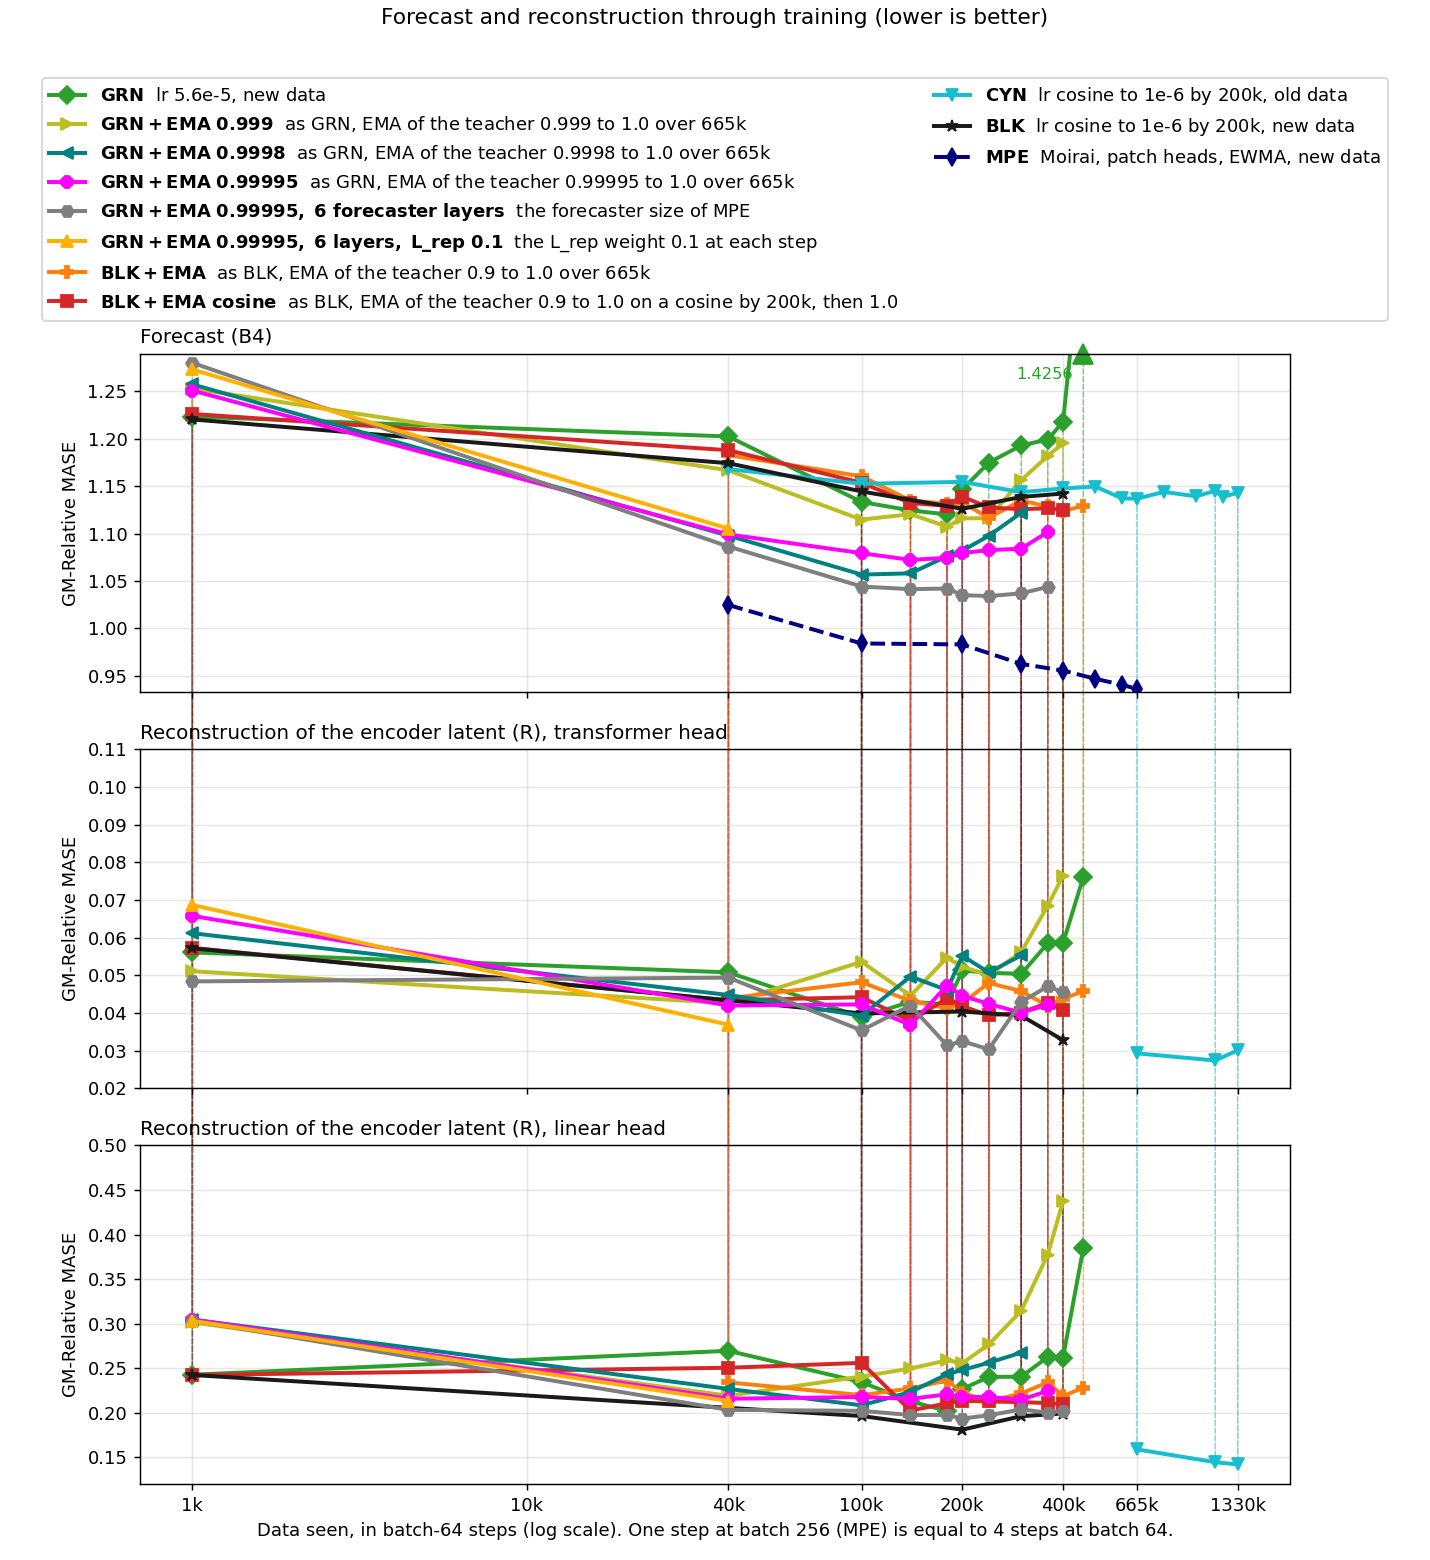
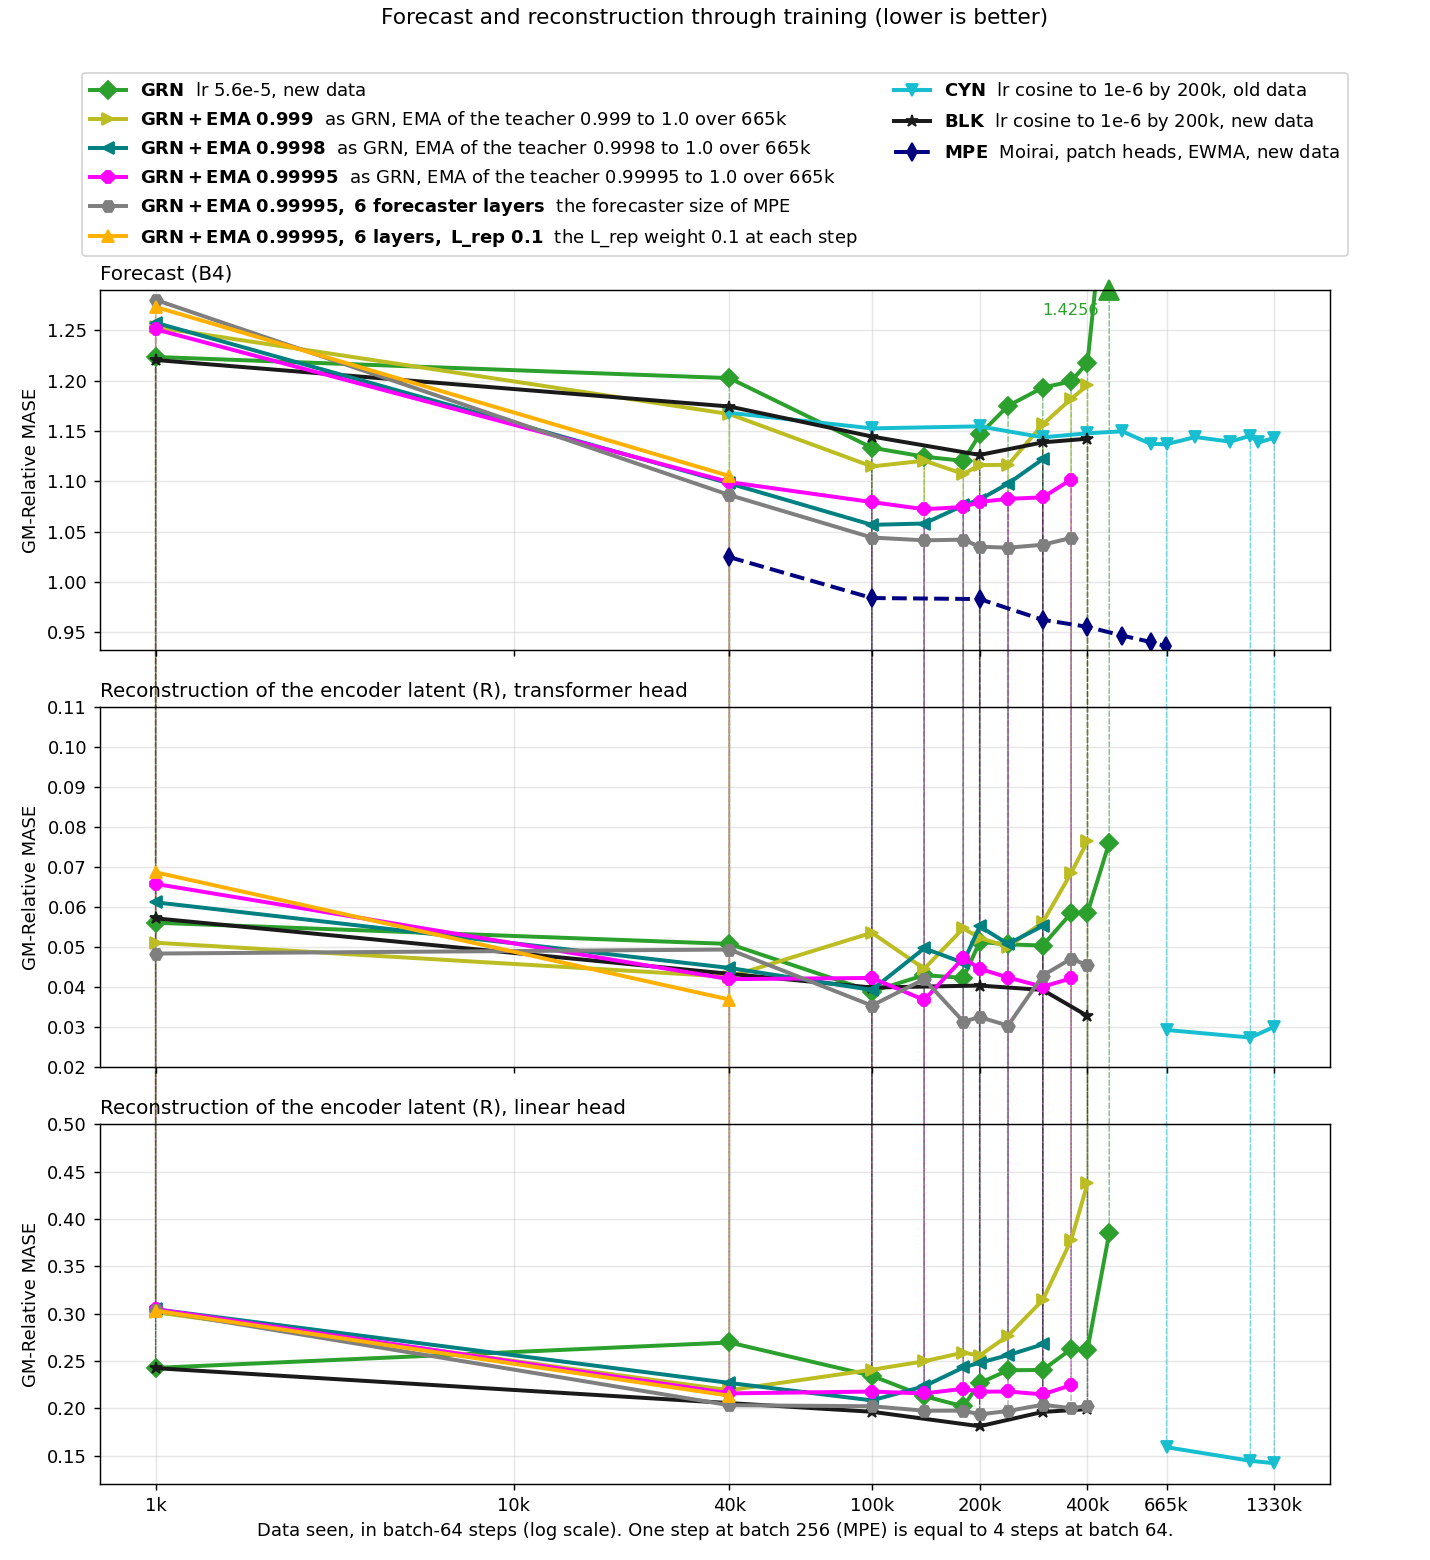
Score figure: remove BLK+EMA and BLK+EMA cosine (owner)

diff --git a/reports/2026-10-10_frequency_family_head/scripts/plot_green_scores.py b/reports/2026-10-10_frequency_family_head/scripts/plot_green_scores.py
@@ -1,9 +1,7 @@
 """The forecast and the reconstruction of the encoder latent through training,
-for the runs of this report (GRN, BLK+EMA, GRN+EMA 0.999, GRN+EMA 0.9998,
-GRN+EMA 0.99995, GRN+EMA 0.99995 with a
-forecaster of 6 layers, the same with the L_rep weight 0.1 at each step,
-BLK+EMA cosine) next to
-CYN and BLK,
+for the runs of this report (GRN, GRN+EMA 0.999, GRN+EMA 0.9998, GRN+EMA
+0.99995, GRN+EMA 0.99995 with a forecaster of 6 layers, the same with the
+L_rep weight 0.1 at each step) next to CYN and BLK,
 and the forecast of MPE (Moirai, patch heads, EWMA, new data, batch 256: x 4
 for the data seen). Writes plots/forecast_and_reconstruction.png: three panels
 on one x axis.
@@ -18,9 +16,10 @@ A dashed vertical line joins the scores of one checkpoint in the panels.
 Reads the scores of CYN and BLK of #412 and #425
 (reports/2026-09-06_moirai_small_size/results/gm_trajectories.tsv,
 reports/2026-10-06_encoder_reconstruction/results/*.tsv), and the scores of
-the runs of this report (GRN: arm abc_gift, BLK+EMA: arm blk_ema,
-GRN+EMA 0.999: arm grn_ema0999, GRN+EMA 0.9998: arm grn_ema09998, GRN+EMA
-0.99995: arm grn_ema099995, BLK+EMA cosine: arm blk_emacos): results/scores.tsv
+the runs of this report (GRN: arm abc_gift, GRN+EMA 0.999: arm grn_ema0999,
+GRN+EMA 0.9998: arm grn_ema09998, GRN+EMA 0.99995: arm grn_ema099995, with 6
+forecaster layers: arm grn_ema099995_f6, and with the L_rep weight 0.1:
+arm grn_ema099995_f6_rep01): results/scores.tsv
 (B4, arm `control`), and results/recon_*.tsv (R, with the columns arm, stop in
 thousands of steps, GM-Relative MASE; collect_recon.py writes them).
 The point at 1k steps of GRN and BLK is a run of the first 1,000 steps
@@ -50,8 +49,6 @@ from plot_gm_rates import XSCALE  # noqa: E402  (batch-256 runs: 4)
 
 GREEN = "abc_gift"
 GREEN_COLOUR = "#2ca02c"  # the colour of the new run in plot_scores.py
-BLK_EMA = "blk_ema"
-BLK_EMA_COLOUR = "#ff7f0e"  # no other run of this figure has this colour
 GRN_EMA0999 = "grn_ema0999"
 GRN_EMA0999_COLOUR = "#bcbd22"  # its colour in plot_ema_plan.py
 GRN_EMA09998 = "grn_ema09998"
@@ -62,10 +59,9 @@ GRN_EMA099995_F6 = "grn_ema099995_f6"
 GRN_EMA099995_F6_COLOUR = "#7f7f7f"  # no other run of this figure has this colour
 GRN_EMA099995_F6_REP01 = "grn_ema099995_f6_rep01"
 GRN_EMA099995_F6_REP01_COLOUR = "#ffb000"  # no other run of this figure has this colour
-BLK_EMACOS = "blk_emacos"
-BLK_EMACOS_COLOUR = "#d62728"  # its colour in plot_ema_plan.py
 # The runs of this report: their forecast comes from results/scores.tsv.
-NEW_RUNS = [GREEN, BLK_EMA, GRN_EMA0999, GRN_EMA09998, GRN_EMA099995, GRN_EMA099995_F6, GRN_EMA099995_F6_REP01, BLK_EMACOS]
+NEW_RUNS = [GREEN, GRN_EMA0999, GRN_EMA09998, GRN_EMA099995, GRN_EMA099995_F6,
+            GRN_EMA099995_F6_REP01]
 # Older runs with a forecast at 1k steps in results/scores.tsv: arm -> run.
 FIRST_STEPS = {"cf419_cos200k": "blk"}
 # The newest runs: drawn above the others, so that their first points show.
@@ -87,10 +83,6 @@ RUNS = [
      "size of MPE", GRN_EMA099995_F6_COLOUR, "H"),
     (GRN_EMA099995_F6_REP01, r"$\mathbf{GRN+EMA\ 0.99995,\ 6\ layers,\ L\_rep\ 0.1}$  the L_rep "
      "weight 0.1 at each step", GRN_EMA099995_F6_REP01_COLOUR, "^"),
-    (BLK_EMA, r"$\mathbf{BLK+EMA}$  as BLK, EMA of the teacher 0.9 to 1.0 over 665k",
-     BLK_EMA_COLOUR, "P"),
-    (BLK_EMACOS, r"$\mathbf{BLK+EMA\ cosine}$  as BLK, EMA of the teacher 0.9 to 1.0 on a cosine "
-     "by 200k, then 1.0", BLK_EMACOS_COLOUR, "s"),
     (P + "_cos200k", tagged(P + "_cos200k", "lr cosine to 1e-6 by 200k, old data"),
      colour(P + "_cos200k"), "v"),
     ("cf419_cos200k", tagged("cf419_cos200k", "lr cosine to 1e-6 by 200k, new data"),
@@ -99,8 +91,8 @@ RUNS = [
 ]
 OURS = STUDY / "results"
 # The R tables of collect_recon.py (first_steps: the 1k point of BLK).
-OUR_R_TABLES = ["green", "blk_ema", "grn_ema0999", "grn_ema09998", "grn_ema099995", "grn_ema099995_f6", "grn_ema099995_f6_rep01",
-                "blk_emacos", "first_steps"]
+OUR_R_TABLES = ["green", "grn_ema0999", "grn_ema09998", "grn_ema099995", "grn_ema099995_f6",
+                "grn_ema099995_f6_rep01", "first_steps"]
 # panel title, y range, the score tables, and whether the forecast of the
 # runs of this report comes from results/scores.tsv
 PANELS = [
